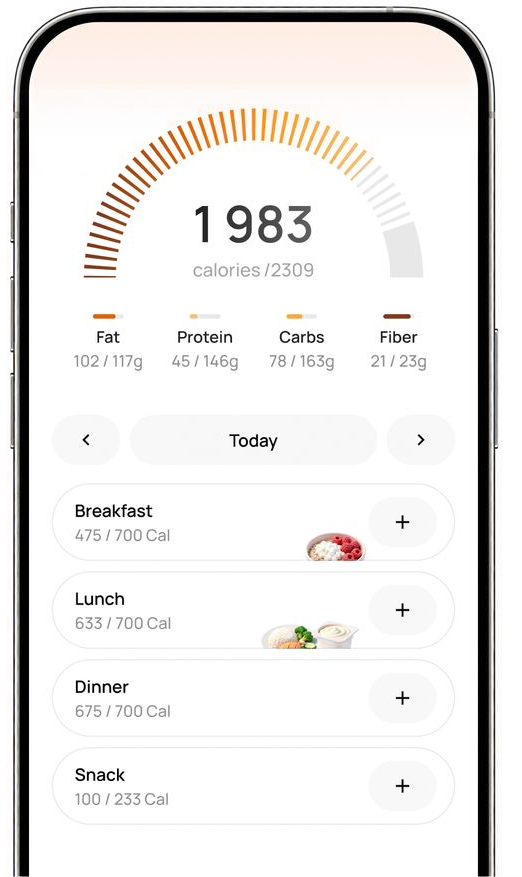
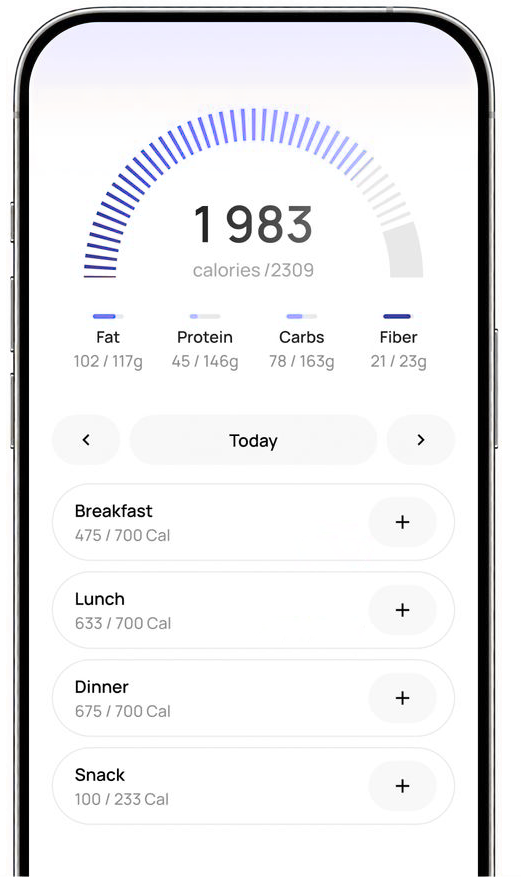
Update nutrition tracker image, remove fade, make phone pop from bottom like home page

diff --git a/pitchdeck/index.html b/pitchdeck/index.html
@@ -748,25 +748,21 @@
         /* Photo Meal slide with phone */
         .photo-meal-slide {
             position: relative;
-            overflow: hidden;
-        }
-
-        .photo-meal-slide .slide-content {
-            max-width: 500px;
+            overflow: visible !important;
         }
 
         .nutrition-phone-left {
-            flex-shrink: 0;
-            width: 260px;
-            position: relative;
+            position: absolute;
+            left: 120px;
+            bottom: -100px;
+            width: 240px;
+            z-index: 10;
         }
 
         .nutrition-phone-left img {
             width: 100%;
             height: auto;
             display: block;
-            mask-image: linear-gradient(to bottom, black 70%, transparent 100%);
-            -webkit-mask-image: linear-gradient(to bottom, black 70%, transparent 100%);
         }
 
         .title-tagline {
@@ -1465,21 +1461,19 @@
             </section>
 
             <!-- Step 1: Photo Meal Recognition -->
-            <section>
-                <div class="slide-content">
+            <section class="photo-meal-slide">
+                <div class="slide-content" style="margin-left: auto; max-width: 550px;">
                     <h3>How It Works</h3>
                     <h2>Step 1: Photo Meal Recognition</h2>
-                    <div class="photo-feature-layout">
-                        <div class="nutrition-phone-left">
-                            <img src="nutrition-tracker.png" alt="Nutrition Tracker">
-                        </div>
-                        <div class="photo-steps">
-                            <div class="photo-step"><span class="step-num">1.</span><span>Snap a photo of any meal</span></div>
-                            <div class="photo-step"><span class="step-num">2.</span><span>AI identifies individual foods</span></div>
-                            <div class="photo-step"><span class="step-num">3.</span><span>Estimates carbs, protein, fat</span></div>
-                            <div class="photo-step"><span class="step-num">4.</span><span>Suggests dosage</span></div>
-                        </div>
+                    <div class="photo-steps" style="margin-top: 1.2em;">
+                        <div class="photo-step"><span class="step-num">1.</span><span>Snap a photo of any meal</span></div>
+                        <div class="photo-step"><span class="step-num">2.</span><span>AI identifies individual foods</span></div>
+                        <div class="photo-step"><span class="step-num">3.</span><span>Estimates carbs, protein, fat</span></div>
+                        <div class="photo-step"><span class="step-num">4.</span><span>Suggests dosage</span></div>
                     </div>
+                </div>
+                <div class="nutrition-phone-left">
+                    <img src="nutrition-tracker.png" alt="Nutrition Tracker">
                 </div>
             </section>
 
